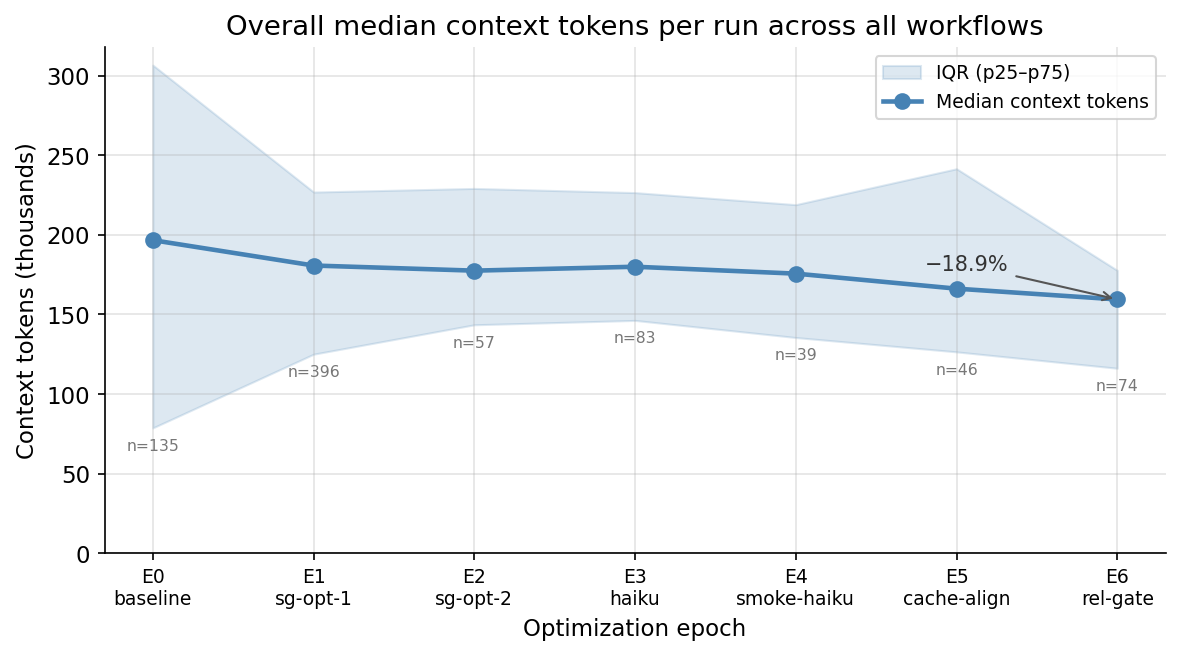
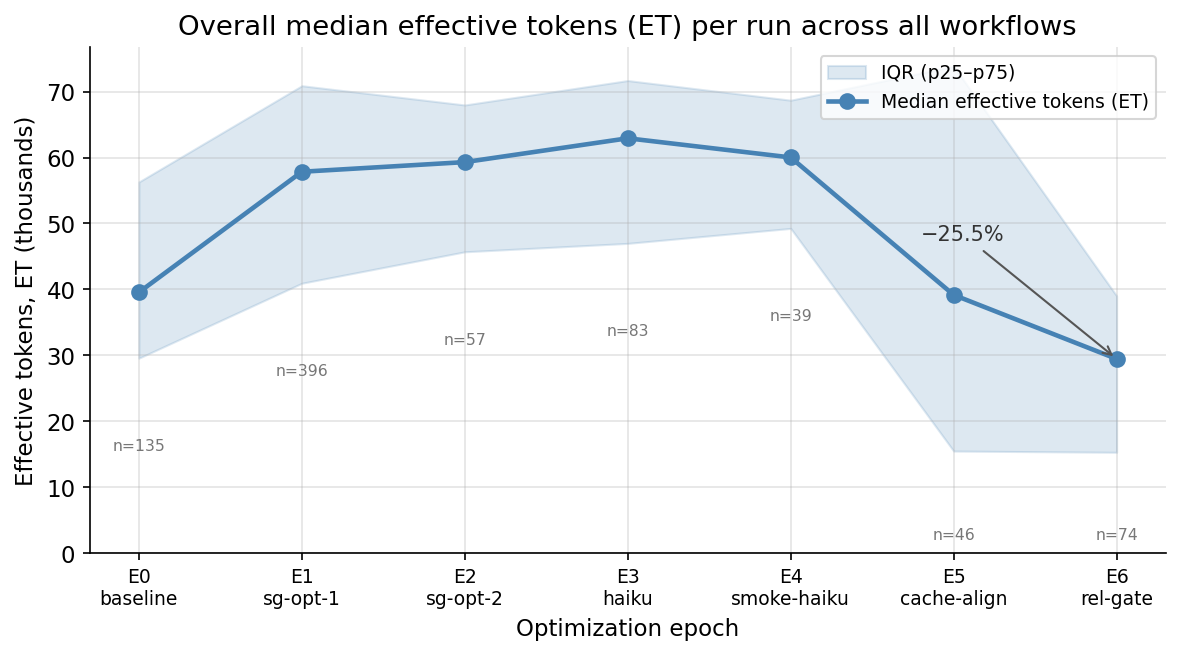
chore(paper): switch figures to ET spec v0.2.0 metric
Replace raw context_tokens with effective_tokens_spec (ET) throughout
figure generation and paper captions. ET formula:

  ET = m x (1.0*I + 0.1*C + 4.0*O)

where m = model multiplier (Haiku=0.25, Sonnet=1.0, Opus=5.0).

Figures 1, 2, and 5 now use ET; Figs 3, 4, 6 are unchanged.

diff --git a/scripts/paper/generate-figures.py b/scripts/paper/generate-figures.py
@@ -2,12 +2,18 @@
 """
 Generate paper figures from token-dataset.jsonl and workload-augment.jsonl.
 
+Token metric: Effective Tokens (ET) per the gh-aw Effective Tokens Specification v0.2.0
+  ET = m × (1.0·I + 0.1·C + 4.0·O)
+  where I = newly-processed input, C = cache-read tokens, O = output tokens
+  and m is the model's Copilot Multiplier (relative to claude-sonnet-4 baseline = 1.0).
+
 Outputs PNG files to paper-data/figures/:
-  fig1-overall-epoch-trend.png      -- Overall median context tokens by epoch
-  fig2-per-workflow-epochs.png      -- Per-workflow median context tokens by epoch
+  fig1-overall-epoch-trend.png      -- Overall median ET by epoch
+  fig2-per-workflow-epochs.png      -- Per-workflow median ET by epoch
   fig3-mcp-vs-cli-migration.png     -- MCP tool calls vs gh-CLI calls over epochs
   fig4-cache-hit-rate.png           -- Cache hit rate by epoch (all workflows)
-  fig5-workload-normalized.png      -- Tokens-per-LLM-call for Smoke Copilot/Claude
+  fig5-workload-normalized.png      -- ET-per-LLM-call for Smoke Copilot/Claude
+  fig6-cost-per-run.png             -- Cost per run distribution by epoch
 """
 
 import json
@@ -38,20 +44,76 @@ print("Loading data…")
 records  = load_jsonl(DATA_DIR / 'token-dataset.jsonl')
 workload = load_jsonl(DATA_DIR / 'workload-augment.jsonl')
 
-# ── Token normalisation (matches TypeScript logic) ────────────────────────────
+# ── Effective Tokens Specification v0.2.0 ─────────────────────────────────────
+# https://raw.githubusercontent.com/github/gh-aw/refs/heads/main/docs/src/content/docs/reference/effective-tokens-specification.md
+#
+# ET = m × (w_in·I + w_cache·C + w_out·O + w_reason·R)
+#
+# Default weights:
+W_IN    = 1.0
+W_CACHE = 0.1
+W_OUT   = 4.0
+W_REASON = 4.0  # no reasoning tokens in this dataset
+
+# Model multipliers (relative to claude-sonnet-4 = 1.0 baseline).
+# Based on approximate list-price input-token ratios vs claude-sonnet-4.
+MODEL_MULTIPLIERS = {
+    # Sonnet tier — baseline
+    'claude-sonnet-4-6':           1.0,
+    'claude-sonnet-4.6':           1.0,
+    'claude-sonnet-4-5-20250929':  1.0,
+    # Haiku tier — ~4× cheaper than Sonnet
+    'claude-haiku-4-5-20251001':   0.25,
+    'claude-haiku-4-5':            0.25,
+    # Opus tier — ~5× more expensive than Sonnet
+    'claude-opus-4.6':             5.0,
+    'claude-opus-4-5':             5.0,
+}
+DEFAULT_MULTIPLIER = 1.0  # fallback for unknown models
+
+def model_multiplier(models_list):
+    """Average multiplier over all models used in a run (typically just one)."""
+    if not models_list:
+        return DEFAULT_MULTIPLIER
+    ms = [MODEL_MULTIPLIERS.get(m, DEFAULT_MULTIPLIER) for m in models_list]
+    return sum(ms) / len(ms)
+
+def compute_et(r):
+    """Compute Effective Tokens per the ET spec from a dataset record."""
+    inp = r['input_tokens']
+    out = r['output_tokens']
+    cR  = r['cache_read_tokens']
+    cW  = r['cache_write_tokens']
+
+    if cR > inp:
+        # Anthropic format: input = net non-cached; cache_write = new tokens written to cache
+        # Newly processed (I) = inp + cW;  Cached (C) = cR
+        I = inp + cW
+        C = cR
+    else:
+        # Copilot/OpenAI format: input = total prompt (includes cache hits)
+        # Newly processed (I) = inp - cR;  Cached (C) = cR
+        I = max(inp - cR, 0)
+        C = cR
+
+    O = out
+    m = model_multiplier(r.get('models', []))
+    base = W_IN * I + W_CACHE * C + W_OUT * O
+    return m * base
+
 def normalise(r):
+    """Add context_tokens (raw total), cache_rate, and effective_tokens (ET spec)."""
     inp, out = r['input_tokens'], r['output_tokens']
     cR, cW   = r['cache_read_tokens'], r['cache_write_tokens']
     if cR > inp:
-        # Anthropic format: input is net-non-cached
         ctx  = inp + cR + cW + out
         rate = cR / ctx if ctx > 0 else 0
     else:
-        # OpenAI/Copilot format: input includes cache reads
         ctx  = inp + cW + out
         rate = cR / inp if inp > 0 else 0
-    r['context_tokens'] = ctx
-    r['cache_rate']     = rate
+    r["effective_tokens_spec"]    = ctx
+    r['cache_rate']        = rate
+    r['effective_tokens_spec'] = compute_et(r)
     return r
 
 records = [normalise(r) for r in records]
@@ -106,13 +168,13 @@ def save(name):
 
 
 # ═══════════════════════════════════════════════════════════════════════════════
-# Figure 1 – Overall median context tokens by epoch
+# Figure 1 – Overall median effective tokens (ET) by epoch
 # ═══════════════════════════════════════════════════════════════════════════════
 print("Figure 1: overall epoch trend…")
 
 epochs = sorted(df['epoch'].unique())
 stats = (
-    df.groupby('epoch')['context_tokens']
+    df.groupby('epoch')["effective_tokens_spec"]
     .agg(median='median', p25=lambda x: x.quantile(0.25), p75=lambda x: x.quantile(0.75), n='count')
     .reindex(epochs)
 )
@@ -126,7 +188,7 @@ ax.fill_between(
     alpha=0.18, color='steelblue', label='IQR (p25–p75)'
 )
 ax.plot(stats.index, stats['median'] / 1e3, 'o-', color='steelblue',
-        linewidth=2.2, markersize=7, label='Median context tokens')
+        linewidth=2.2, markersize=7, label='Median effective tokens (ET)')
 
 # Annotate final reduction
 e0_med = stats.loc[0, 'median']
@@ -140,9 +202,9 @@ ax.annotate(
 
 ax.set_xticks(epochs)
 ax.set_xticklabels([EPOCH_LABELS[e] for e in epochs], fontsize=9)
-ax.set_ylabel('Context tokens (thousands)')
+ax.set_ylabel('Effective tokens, ET (thousands)')
 ax.set_xlabel('Optimization epoch')
-ax.set_title('Overall median context tokens per run across all workflows')
+ax.set_title('Overall median effective tokens (ET) per run across all workflows')
 ax.set_ylim(bottom=0)
 ax.legend(loc='upper right', fontsize=9)
 
@@ -157,7 +219,7 @@ save('fig1-overall-epoch-trend.png')
 
 
 # ═══════════════════════════════════════════════════════════════════════════════
-# Figure 2 – Per-workflow median context tokens by epoch
+# Figure 2 – Per-workflow median effective tokens (ET) by epoch
 # ═══════════════════════════════════════════════════════════════════════════════
 print("Figure 2: per-workflow trends…")
 
@@ -169,16 +231,16 @@ for wfname in WORKFLOWS_MAIN:
     sub = df[df['workflow'] == wfname]
     if sub.empty:
         continue
-    med = sub.groupby('epoch')['context_tokens'].median() / 1e3
+    med = sub.groupby('epoch')["effective_tokens_spec"].median() / 1e3
     color = WORKFLOW_COLORS.get(wfname, 'grey')
     ax.plot(med.index, med.values, 'o-', color=color,
             linewidth=2, markersize=6, label=wfname)
 
 ax.set_xticks(sorted(df['epoch'].unique()))
 ax.set_xticklabels([EPOCH_LABELS[e] for e in sorted(df['epoch'].unique())], fontsize=9)
-ax.set_ylabel('Median context tokens (thousands)')
+ax.set_ylabel('Median effective tokens (ET) (thousands)')
 ax.set_xlabel('Optimization epoch')
-ax.set_title('Per-workflow median context tokens by epoch')
+ax.set_title('Per-workflow median effective tokens (ET) by epoch')
 ax.set_ylim(bottom=0)
 ax.legend(fontsize=9, loc='upper right')
 plt.tight_layout()
@@ -272,7 +334,7 @@ print("Figure 5: workload-normalized tok/call…")
 tok_df = df.dropna(subset=['gh_cli_calls']).copy()
 # Filter to epochs 3+ where api_calls is tracked
 tok_df = tok_df[tok_df['epoch'] >= 3].copy()
-tok_df['tok_per_call'] = tok_df['context_tokens'] / tok_df['api_calls'].replace(0, float('nan'))
+tok_df['tok_per_call'] = tok_df["effective_tokens_spec"] / tok_df['api_calls'].replace(0, float('nan'))
 
 fig, axes = plt.subplots(1, 2, figsize=(11, 4.5), sharey=False)
 
@@ -301,7 +363,7 @@ for ax, wfname in zip(axes, ['Smoke Copilot', 'Smoke Claude']):
     ax.set_xticks(xs)
     ax.set_xticklabels([EPOCH_SHORT[e] for e in xs], fontsize=9)
     ax.set_xlabel('Epoch')
-    ax.set_ylabel('Context tokens per LLM call (thousands)', fontsize=9)
+    ax.set_ylabel('Effective tokens per LLM call, ET (thousands)', fontsize=9)
     ax.set_ylim(bottom=0)
     ax.set_title(wfname, fontsize=10)
 
@@ -317,7 +379,7 @@ for ax, wfname in zip(axes, ['Smoke Copilot', 'Smoke Claude']):
                     fontsize=10, color=color,
                     bbox=dict(boxstyle='round,pad=0.3', fc='white', alpha=0.7))
 
-fig.suptitle('Workload-normalized context tokens per LLM call', fontsize=12)
+fig.suptitle('Workload-normalized effective tokens (ET) per LLM call', fontsize=12)
 plt.tight_layout()
 save('fig5-workload-normalized.png')
 

diff --git a/scripts/paper/paper-draft.md b/scripts/paper/paper-draft.md
@@ -92,7 +92,7 @@ cache_rate = cache_read / input
 
 We detect the convention per-record using the heuristic `cache_read > input → Anthropic format`. This covers all cases in our dataset (Anthropic's net-non-cached `input` is always much smaller than `cache_read` when caching is active; OpenAI's cached portion never exceeds the total prompt).
 
-All per-epoch statistics in this paper use the normalized `context_tokens` field.
+All per-epoch statistics in this paper use the normalized `effective_tokens_spec` field (ET spec v0.2.0).
 
 ### 3.4 Optimization Epochs
 
@@ -190,9 +190,9 @@ Median context fell monotonically from 196.7 K to 159.5 K over the 20-day period
 
 The p75–p25 interquartile range also narrowed substantially: from 231.8 K at baseline to 62.7 K at epoch 6. This compression of the distribution reflects the relevance gate eliminating high-token outlier runs (irrelevant PRs previously consumed a full Security Guard analysis).
 
-![Figure 1: Overall median context tokens per run by epoch, with IQR band (p25–p75). The shaded region illustrates the narrowing distribution from epoch 5 onward.](../../paper-data/figures/fig1-overall-epoch-trend.png)
+![Figure 1: Overall median effective tokens (ET) per run by epoch, with IQR band (p25–p75). The shaded region illustrates the narrowing distribution from epoch 5 onward.](../../paper-data/figures/fig1-overall-epoch-trend.png)
 
-**Figure 1.** Overall median context tokens per run by epoch (all workflows combined). Shaded band shows IQR (p25–p75). n counts appear below each epoch.
+**Figure 1.** Overall median effective tokens (ET) per run by epoch (all workflows combined). Shaded band shows IQR (p25–p75). n counts appear below each epoch.
 
 ### 5.2 Per-Workflow Results
 
@@ -254,9 +254,9 @@ Context *increased* in epochs 1–3 before falling in epochs 4–6. The workload
 
 Secret Digger serves as an internal control: its stability across epochs (despite repo-wide changes) validates that our epoch-labeling and normalization methodology does not introduce spurious trends.
 
-![Figure 2: Per-workflow median context tokens by epoch.](../../paper-data/figures/fig2-per-workflow-epochs.png)
+![Figure 2: Per-workflow median effective tokens (ET) by epoch.](../../paper-data/figures/fig2-per-workflow-epochs.png)
 
-**Figure 2.** Per-workflow median context tokens by epoch. Security Guard's E5 spike (cache-align transition) and Smoke Claude's U-shape are visible.
+**Figure 2.** Per-workflow median effective tokens (ET) by epoch. Security Guard's E5 spike (cache-align transition) and Smoke Claude's U-shape are visible.
 
 ### 5.3 Workload-Normalized Analysis
 
@@ -275,7 +275,7 @@ The most practically important result is from Smoke Copilot: **a 23% reduction i
 
 ![Figure 5: Workload-normalized tokens per LLM call for Smoke Copilot and Smoke Claude, epochs 3–6. Bar height (right axis) shows median LLM API calls per run.](../../paper-data/figures/fig5-workload-normalized.png)
 
-**Figure 5.** Context tokens per LLM call (line, left axis) and median LLM API call count (bars, right axis) for Smoke Copilot and Smoke Claude. Smoke Copilot's flat bar height with declining line illustrates the pure-efficiency regime.
+**Figure 5.** Effective tokens (ET) per LLM call (line, left axis) and median LLM API call count (bars, right axis) for Smoke Copilot and Smoke Claude. Smoke Copilot's flat bar height with declining line illustrates the pure-efficiency regime.
 
 ### 5.4 MCP-to-CLI Migration
 
